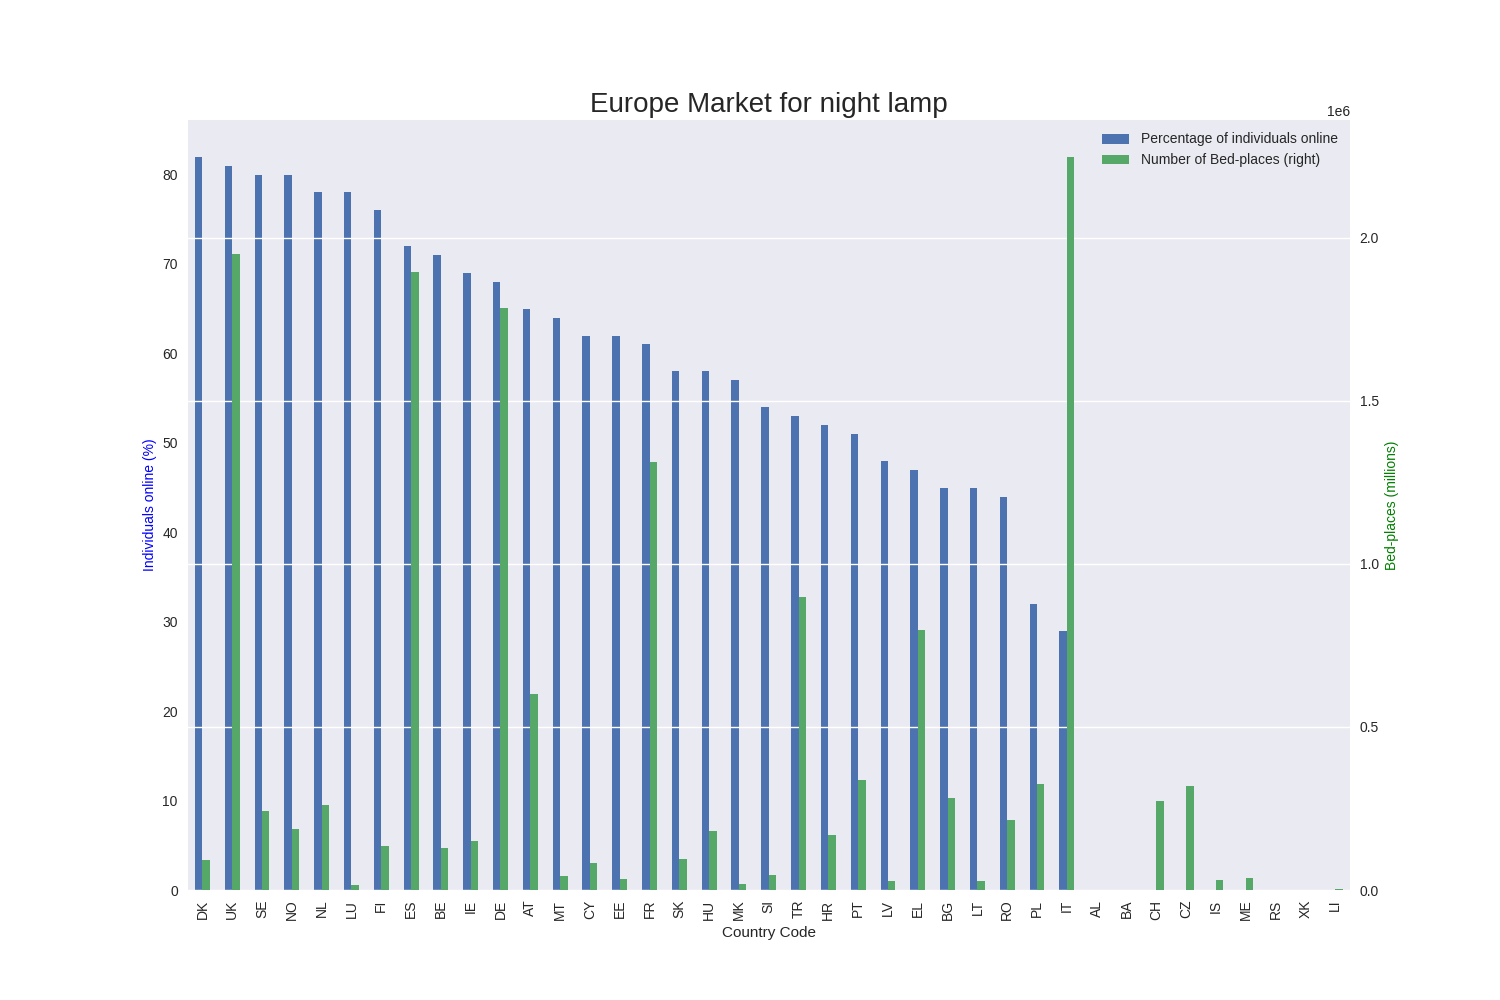
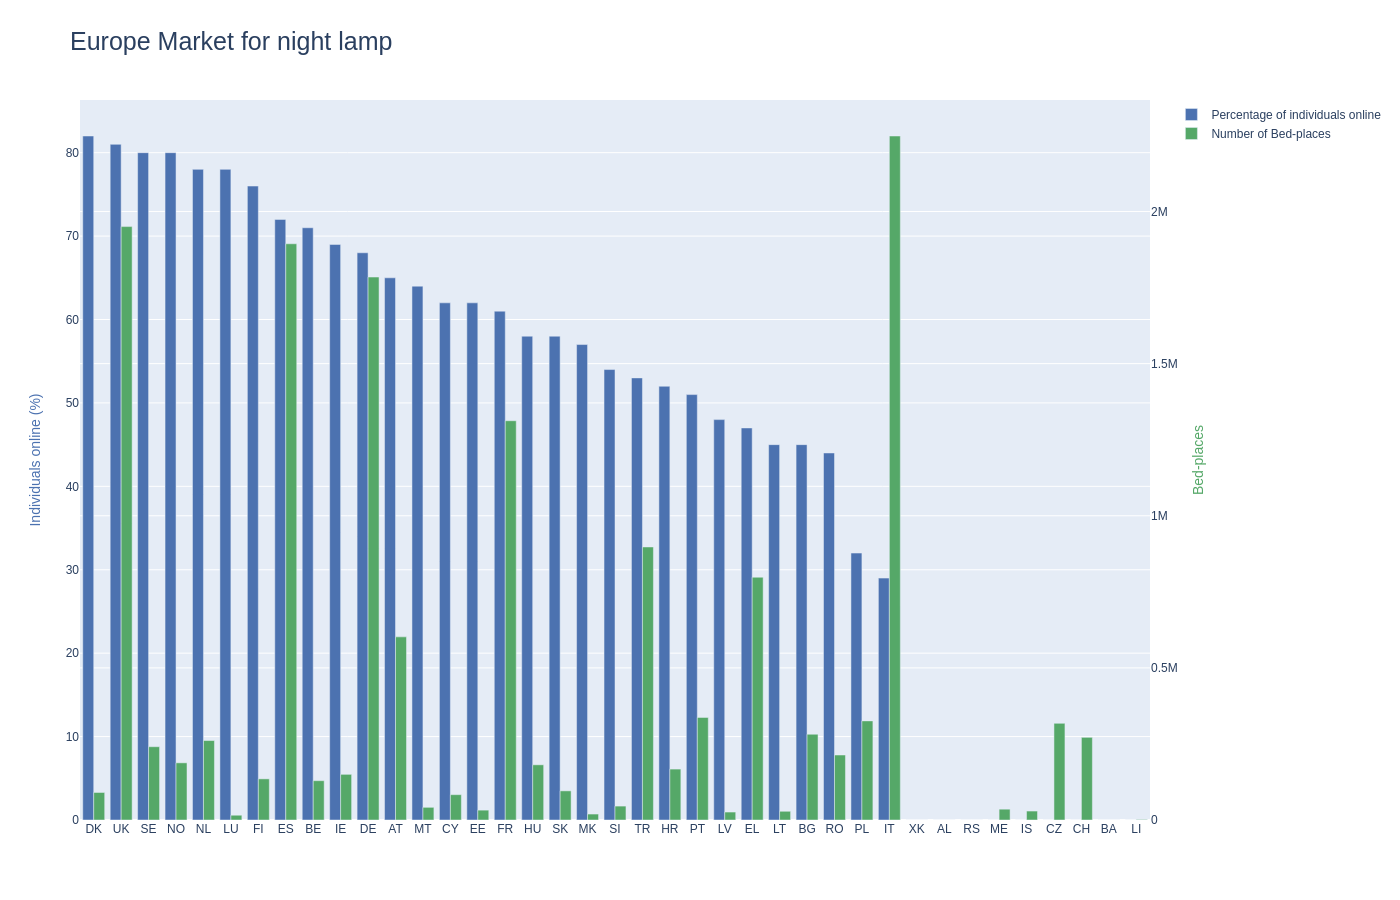
change visualizing library (matplotlib => plotly) 1. Table 형태로 시각화 하기에 matplotlib는 적절하지 않다고 판단    => 보기 좋은 형태로 나타내기 위해서는 다른 라이브러리를 사용해야 함    => 하나의 라이브러리로 table과 graph 둘 다 빌드할 수 있는 plotly 선택 2. plotly는 interactive한 그래프를 만들 수 있다.    => 정적인 image file로도 저장할 수 있지만, web에서 띄워놓고 hover로 자세한 data 값을 볼 수 있는 

diff --git a/visualization.py b/visualization.py
@@ -1,9 +1,7 @@
 import pandas as pd
-import matplotlib.pyplot as plt
+import plotly.graph_objs as go
 
 from sklearn.preprocessing import MinMaxScaler, StandardScaler
-
-plt.style.use('seaborn')
 
 df = pd.read_csv(
     'processed_data.csv',
@@ -11,30 +9,51 @@ df = pd.read_csv(
 )
 
 # bar_plot
-bar = df.plot(
-    kind        = 'bar',
-    secondary_y = 'Number of Bed-places',
-    figsize     = (15, 10)
+fig = go.Figure()
+
+fig.add_trace(go.Bar(
+    x     = df.index,
+    y     = df['Percentage of individuals online'],
+    name  = 'Percentage of individuals online',
+    yaxis = 'y',
+    offsetgroup  = 1,
+    marker_color = '#4C72B0'
+
+))
+fig.add_trace(go.Bar(
+    x     = df.index,
+    y     = df['Number of Bed-places'],
+    name  = 'Number of Bed-places',
+    yaxis = 'y2',
+    offsetgroup = 2,
+    marker_color = '#55A868'
+))
+
+fig.update_layout(
+    barmode = 'group',
+    title = dict(
+        text      = 'Europe Market for night lamp',
+        font_size = 25
+    ),
+    yaxis = dict(
+        title     = 'Individuals online (%)',
+        titlefont = dict(
+            color = '#4C72B0'
+        )
+    ),
+    yaxis2 = dict(
+        title     = 'Bed-places',
+        overlaying = 'y',
+        side      = 'right',
+        titlefont = dict(
+            color = '#55A868'
+        )
+    )
 )
 
-bar.set_title(
-    "Europe Market for night lamp",
-    fontsize = 20
-)
+fig.show()
+fig.write_image('bar_plot.png', width = 1400, height = 900)
 
-bar.set_ylabel(
-    "Individuals online (%)",
-    color    = 'blue',
-    fontsize = 10
-)
-
-bar.right_ax.set_ylabel(
-    "Bed-places (millions)",
-    color    = 'green',
-    fontsize = 10
-)
-
-plt.savefig('bar_plot')
 
 # table
 original_table   = df
